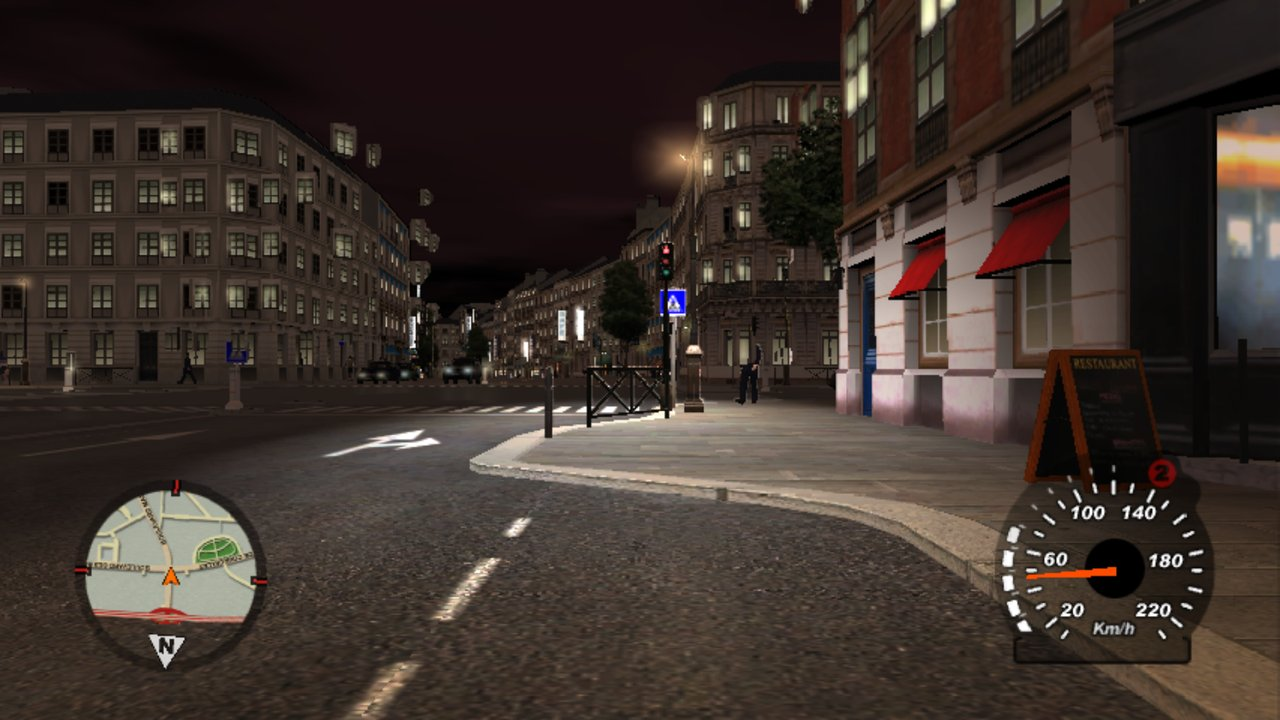
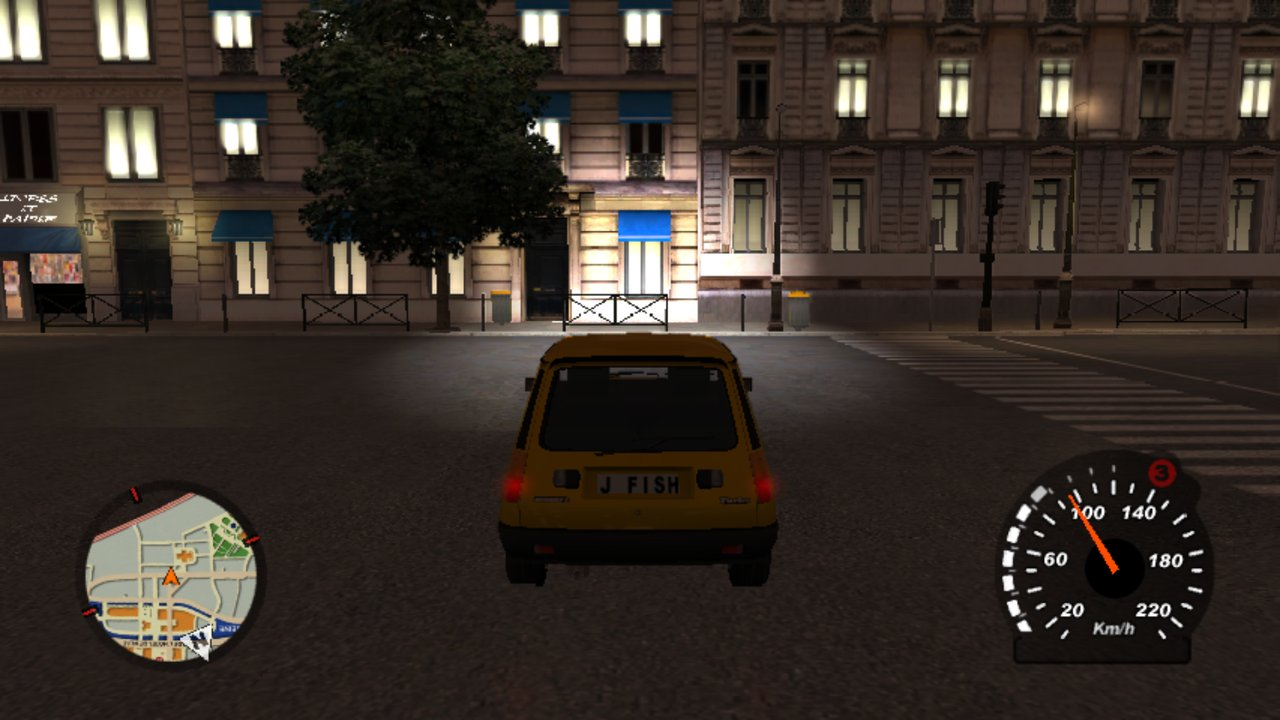
widescreen: full-screen quads at the Xbox half-pixel offset keep full width
Xbox D3D full-target quads sit at 0.53125..640.53125, past the 0.5 slack the
widescreen HUD placement allowed, so they were taken for race-HUD pieces and
squeezed to 4:3. At night that squeezed the scene glow composite, leaving lit
windows floating off buildings (and doubled signs) that slid as the camera
turned; in the race intro it shrank the letterbox bars into black rectangles.
One shared slack (RECOMP_SPANS) now covers place(), hud_split and piece
clustering. Overlay contract covers both cases; README night shot retaken.

diff --git a/tests/mm3_overlay_contract.c b/tests/mm3_overlay_contract.c
@@ -171,13 +171,29 @@ static void route_contract(float aspect) {
     mm3_hud_hooks.sanitize_vertex_upload(copy, &submitted_uv, 2, 17, 4);
     assert(!memcmp(copy, "\0\0\0\0", 4)); /* Required even in 4:3. */
 }
+/* The Xbox D3D screen offset puts full-target quads at 0.53125..640.53125.
+ * During a race they must keep the full width: the night glow composite
+ * squeezed to 4:3 left lit windows floating off the buildings, and the
+ * intro letterbox bars squeezed into black rectangles. */
+static void offset_contract(float aspect) {
+    const float o = 0.53125f;
+    Result glow, bar;
+    seed();
+    glow = box(o, 640 + o, o, 480 + o, aspect, 1, 1, 777);
+    close_float(glow.squeeze, 1); close_float(glow.x[0], o); close_float(glow.x[1], 640 + o);
+    bar = box(o, 640 + o, o, 60 + o, aspect, 0, 0, 0);
+    close_float(bar.squeeze, 1); close_float(bar.x[0], o); close_float(bar.x[1], 640 + o);
+    bar = box(o, 640 + o, 420 + o, 480 + o, aspect, 0, 0, 0);
+    close_float(bar.squeeze, 1); close_float(bar.x[0], o); close_float(bar.x[1], 640 + o);
+}
 int main(void) {
     assert(mm3_hud_hooks.vertex_alignment == mm3_render_vertex_alignment);
     static const float aspects[] = {1.6f, 16.0f/9.0f, 21.0f/9.0f};
     unsigned i;
     for (i = 0; i < sizeof aspects/sizeof aspects[0]; ++i) {
         map_contract(aspects[i]); pause_contract(aspects[i]); route_contract(aspects[i]);
+        offset_contract(aspects[i]);
     }
-    puts("PASS overlay: common map/marker anchor, centred pause caps, mixed route/HUD/dimmer draws, private UV cleanup and mod gating");
+    puts("PASS overlay: common map/marker anchor, centred pause caps, mixed route/HUD/dimmer draws, private UV cleanup, half-pixel full-screen quads and mod gating");
     return 0;
 }

diff --git a/src/mods/widescreen_hud.c b/src/mods/widescreen_hud.c
@@ -167,7 +167,7 @@ static int hud_split(const float (*pos)[4], uint32_t nv, const uint32_t *idx, ui
              * the full width; the shader squeezes it to 4:3 about there */
             dx[i] = ((box[c][0] + box[c][1]) * 0.5f - half) * (1.0f / narrow - 1.0f);
             moved = 1;
-        } else if (box[c][0] <= 0.5f && box[c][1] >= gw - 0.5f) {
+        } else if (RECOMP_SPANS(box[c][0], box[c][1], gw)) {
             /* a full-screen quad in the batch (the fade the title draws over
              * a car reset, in the same call as the needle and damage bar):
              * undo the 4:3 squeeze so it still covers the whole width */
@@ -214,8 +214,8 @@ static int place(const NvOverlayDraw *d, float *dx, float *squeeze, float *shift
             if (v[1] > yhi) yhi = v[1];
         }
     }
-    wide_x = xlo <= 0.5f && xhi >= gw - 0.5f;
-    tall = ylo <= 0.5f && yhi >= d->gh - 0.5f;
+    wide_x = RECOMP_SPANS(xlo, xhi, gw);
+    tall = RECOMP_SPANS(ylo, yhi, d->gh);
     /* A full-screen image over the race scene (the frozen frame behind the
      * pause menu, the dimmer behind the results) spans like the scene and
      * is no menu background: the 2D over it keeps the race's placement. */

diff --git a/src/geometry/piece_cluster.c b/src/geometry/piece_cluster.c
@@ -69,8 +69,8 @@ int recomp_piece_clusters(uint32_t nv, const float (*pos)[4], const uint32_t *id
         for (k = i + 1; k < np; k++) {
             uint32_t a = i, b = k;
             /* A full-span quad overlaps every piece and stays its own. */
-            if ((scratch[i][0] <= 0.5f && scratch[i][1] >= span - 0.5f) ||
-                (scratch[k][0] <= 0.5f && scratch[k][1] >= span - 0.5f))
+            if (RECOMP_SPANS(scratch[i][0], scratch[i][1], span) ||
+                RECOMP_SPANS(scratch[k][0], scratch[k][1], span))
                 continue;
             if (scratch[i][2] > scratch[k][3] || scratch[k][2] > scratch[i][3] ||
                 scratch[i][0] > scratch[k][1] + gap || scratch[k][0] > scratch[i][1] + gap)

diff --git a/src/geometry/piece_cluster.h b/src/geometry/piece_cluster.h
@@ -13,6 +13,14 @@
 
 #include <stdint.h>
 
+/* How far a full-screen quad's edge may sit inside the target and still span
+ * it: the Xbox D3D screen offset puts a 640-wide quad at 0.53125..640.53125.
+ * A 0.5 limit took those for HUD pieces, and widescreen squeezed the night
+ * glow composite and the intro letterbox bars to the middle 4:3. */
+#define RECOMP_FULL_SPAN_SLACK 0.5625f
+#define RECOMP_SPANS(lo, hi, span) \
+    ((lo) <= RECOMP_FULL_SPAN_SLACK && (hi) >= (span) - RECOMP_FULL_SPAN_SLACK)
+
 /* cluster[i] receives the cluster index of vertex i, and box[c] the bounds of
  * cluster c (x0, x1, y0, y1). Returns 0 when an index is out of range or the
  * scratch storage cannot be allocated. */
